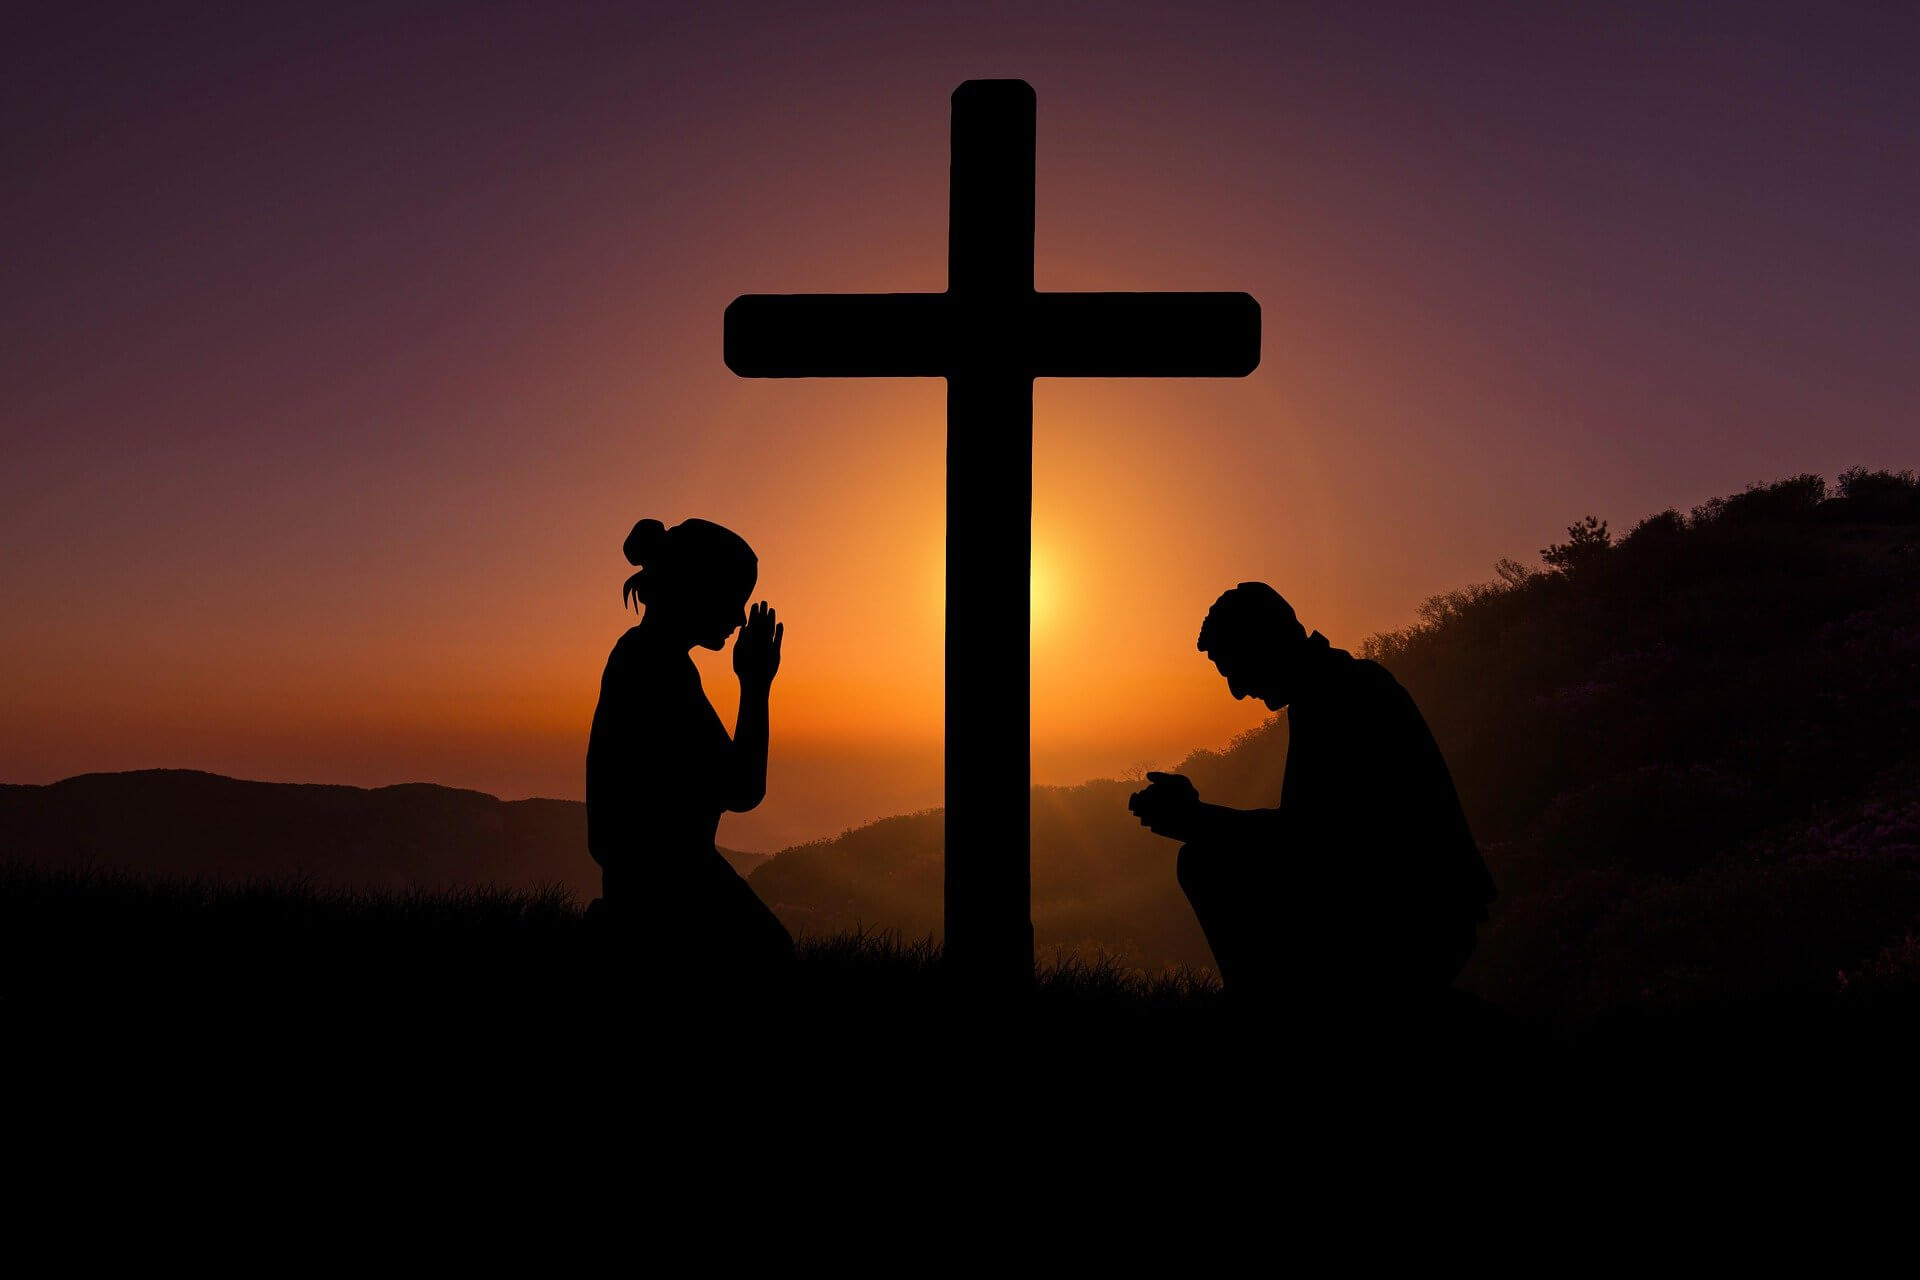
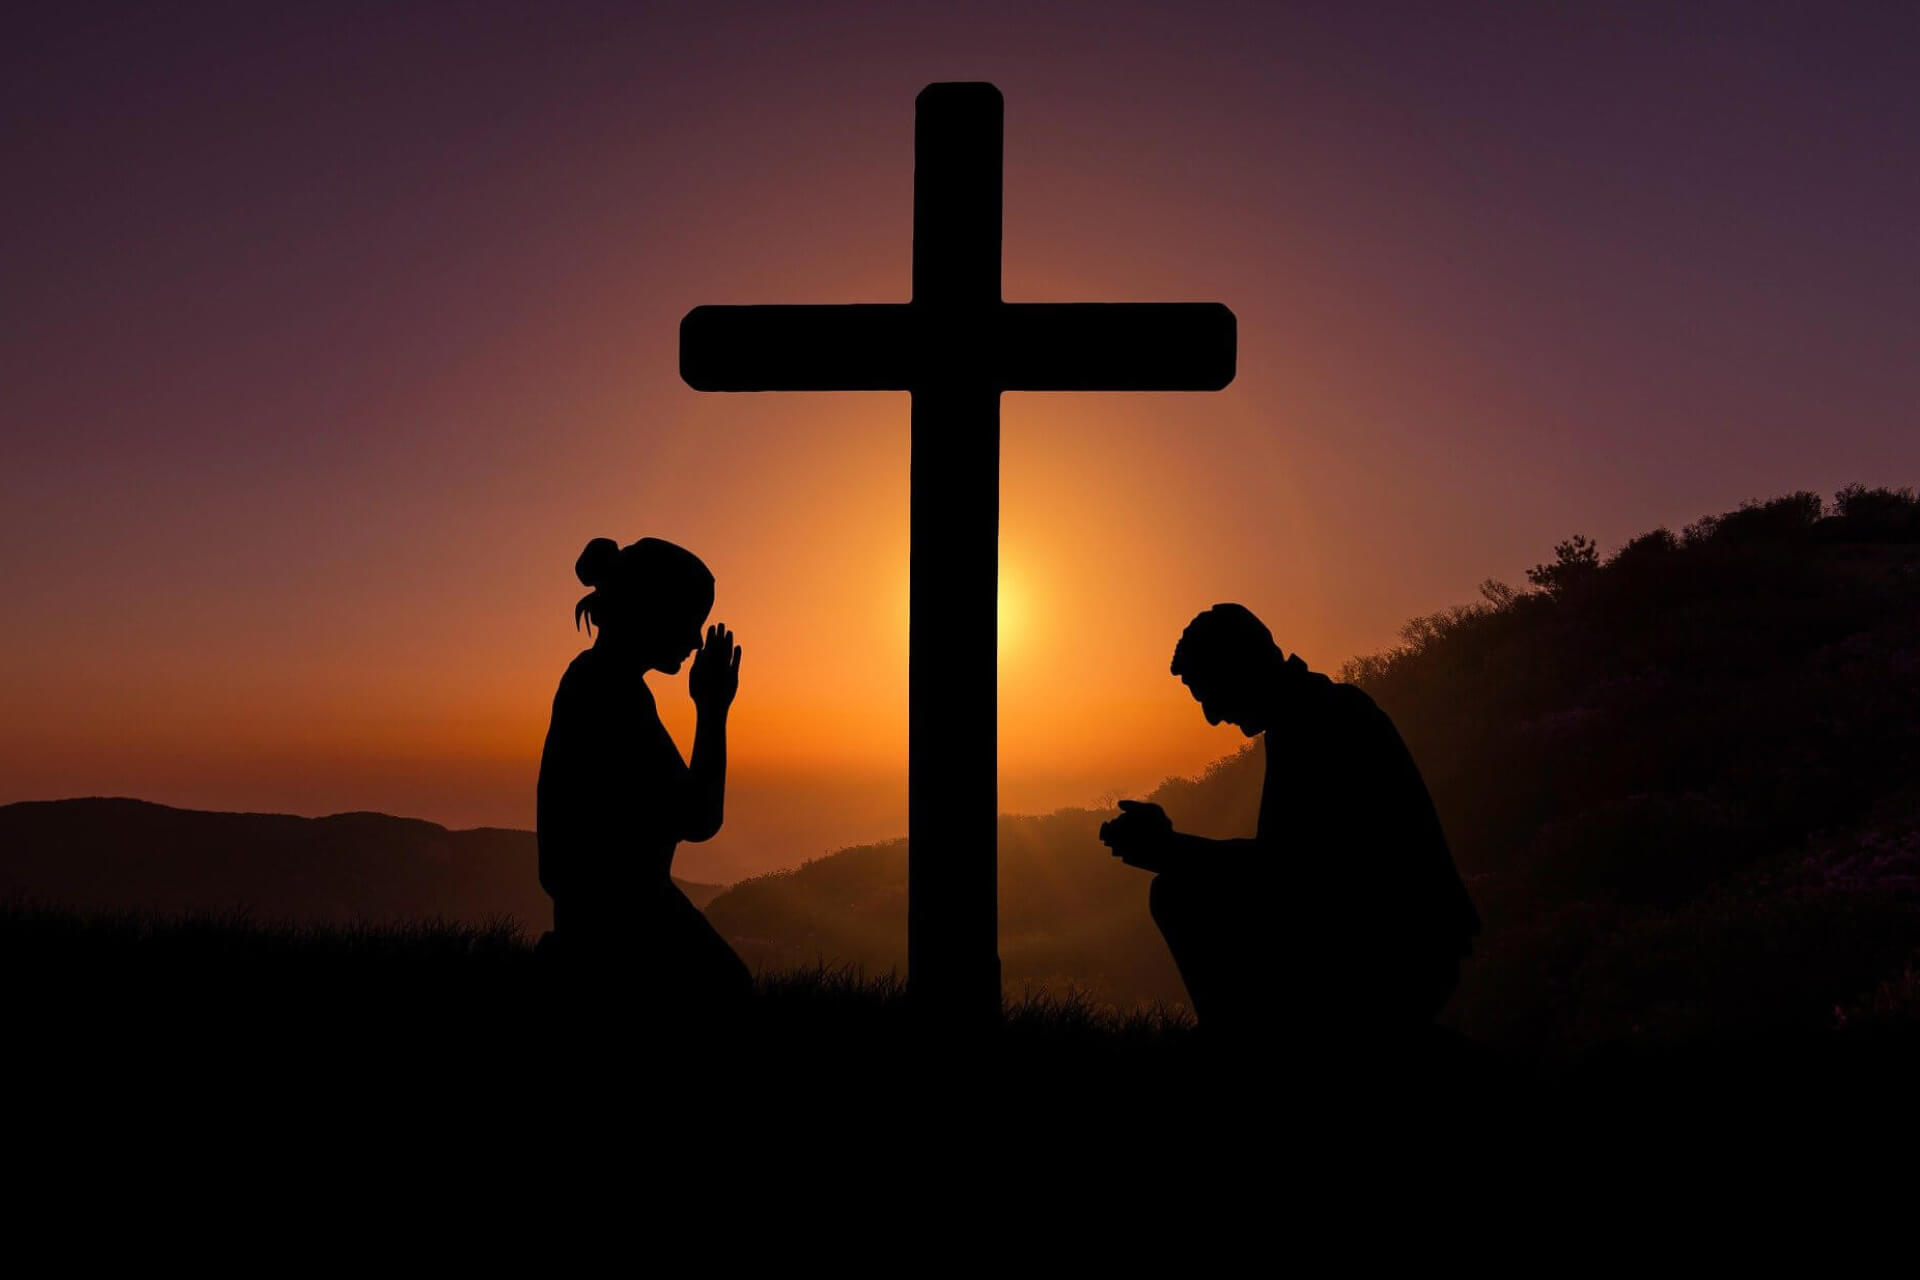
Add Jezus, change background

Changed region(s): [[0.0, 0.0625, 0.8125, 0.8125], [0.8125, 0.3438, 1.0, 0.4375]]

diff --git a/src/App.js b/src/App.js
@@ -15,6 +15,7 @@ import {
   Backdrop,
   MysteryFragment,
 } from './component/mystery-fragment/mystery-fragment';
+import Jezus from './component/photos/Jezus.png';
 
 export default class App extends React.Component {
   constructor() {
@@ -30,6 +31,7 @@ export default class App extends React.Component {
         nr: '1',
         mystery: 'tajemnica',
       },
+      displayJezus: false,
     };
     this.mysteryList = Object(Statics.mysteryList);
 
@@ -63,11 +65,11 @@ export default class App extends React.Component {
   }
 
   showFragment() {
-    this.setState({ fragmentVisibility: true });
+    this.setState({ fragmentVisibility: true, displayJezus: true });
   }
 
   hideFragment() {
-    this.setState({ fragmentVisibility: false });
+    this.setState({ fragmentVisibility: false, displayJezus: false });
   }
 
   showMenu(state) {
@@ -264,6 +266,12 @@ export default class App extends React.Component {
           </NavLink>
         </Menu>
 
+        <div className="background_img"></div>
+        {this.state.displayJezus ? (
+          <img className="jezus" src={Jezus} alt="Jezus" />
+        ) : (
+          ''
+        )}
         <div className="App">
           {/* <div className="content-shadow"> */}
           <Route exact path="/">

diff --git a/src/App.css b/src/App.css
@@ -6,8 +6,34 @@
   display: flex;
   justify-content: center;
   align-items: center;
-  background: radial-gradient(rgba(0, 133, 255, 0.5), var(--blue-color));
-  background-attachment: fixed;
+  background: transparent;
+  z-index: 1;
+}
+
+.background_img {
+  position: fixed;
+  height: 100vh;
+  width: 100%;
+  background: url('./component/photos/Background.jpg') center center no-repeat
+      fixed,
+    radial-gradient(rgba(0, 133, 255, 0.5), var(--blue-color));
+  background-size: cover;
+  filter: blur(8px);
+  -webkit-filter: blur(10px);
+  transform: scale(1.09);
+}
+.jezus {
+  position: fixed;
+  display: block;
+  width: 30%;
+  left: -2.5%;
+  bottom: 0;
+}
+
+@media (max-width: 1200px) {
+  .jezus {
+    display: none;
+  }
 }
 
 .bm-menu-wrap {
